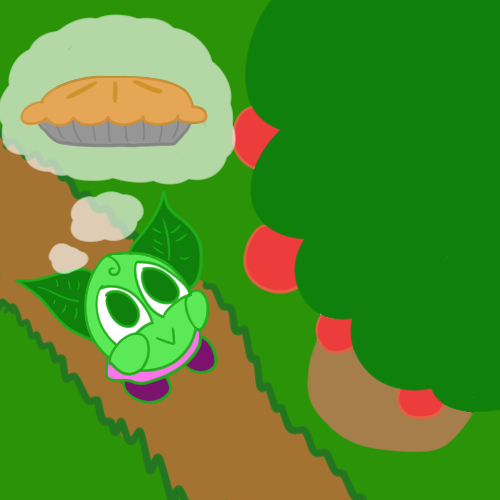
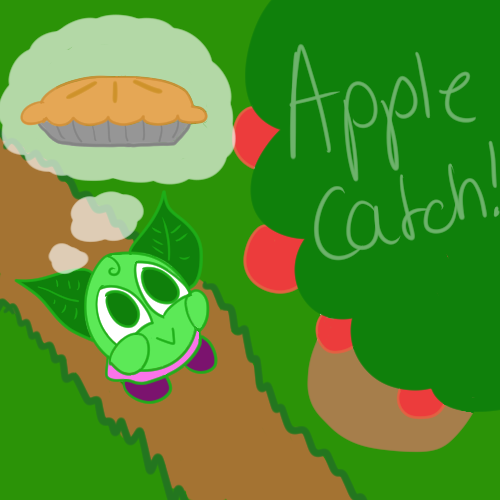
//Updated Screens and added finishing touches!

Changed region(s): [[0.57, 0.09, 1.0, 0.54], [0.63, 0.39, 0.66, 0.51], [0.66, 0.36, 0.69, 0.39]]

diff --git a/src/Game.java b/src/Game.java
@@ -147,40 +147,51 @@ public class Game extends PApplet {
     	//System.out.println("Start!");
     	
     	if ((mouseX >= 10 && mouseY >= 419) && (mouseX <= 138 && mouseY <= 482)){
-    		text("TEST", 10, 419);
-    		text("TEST2", 138, 482);
+    		//text("TEST", 10, 419);
+    		//text("TEST2", 138, 482);
     		mouseInStart = true;
     	}
     	
     }
 
     public void LoseScreen() {
-    	background(LossScreen);
-    	image(RestartB, 180, 355);
-    	LossMusic.play();
     	
-    	if (Game_music.isPlaying()) {
+    	if (Game_music.isPlaying() || TS_music.isPlaying()) {
     		Game_music.pause();
     		TS_music.pause();
     	}
     	
+    	LossMusic.play();
+    	
+    	background(LossScreen);
+    	/*
+    	image(RestartB, 180, 355);
+    	
     	if ((mouseX >= 176 && mouseY >= 352) && (mouseX <= 305 && mouseY <= 416)){
     		mouseInRestart = true;
-    	}
+    	}*/
     	
     }
 
     public void WinScreen() {
-    	background(WinScreen);
-    	image(RestartB, 180, 400);
-    	WinMusic.play();
     	if (Game_music.isPlaying()) {
     		Game_music.pause();
+    		
+    	}
+    	
+    	if (TS_music.isPlaying()) {
     		TS_music.pause();
     	}
+    	
+    	WinMusic.play();
+    	
+    	background(WinScreen);
+    	/*
+    	image(RestartB, 180, 400);
+    	
     	if ((mouseX >= 179 && mouseY >= 398) && (mouseX <= 305 && mouseY <= 460)){
     		mouseInRestart = true;
-    	}
+    	}*/
     	
     }
 
@@ -189,11 +200,12 @@ public class Game extends PApplet {
     		playGame = true;
     		System.out.println("In Start Clicked!");
     	}
-    	
+    	/*
     	if (mouseInRestart) {
     		ToStart = true;
     		System.out.println("Restart Clicked!");
     	}
+    	*/
     }
 
     public void draw() {
@@ -232,27 +244,27 @@ public class Game extends PApplet {
 	       //Handles levels
 	        switch (Level) {
 	            case 1:
-	                minApples = 12;
+	                minApples = 5;
 	                timer = new Timer(40000); // 40 Seconds
 	                FallingObject.Velocity = 2;
 	                break;
 	            case 2:
-	                minApples = 13;
+	                minApples = 8;
 	                timer = new Timer(35000); // 35 Seconds
 	                FallingObject.Velocity = 2;
 	                break;
 	            case 3:
-	                minApples = 15;
+	                minApples = 10;
 	                timer = new Timer(30000); // 30 Seconds
 	                FallingObject.Velocity = 2;
 	                break;
 	            case 4:
-	                minApples = 16;
+	                minApples = 11;
 	                timer = new Timer(25000); // 25 Seconds
 	                FallingObject.Velocity = 2;
 	                break;
 	            case 5:
-	                minApples = 18;
+	                minApples = 12;
 	                timer = new Timer(20000); // 20 Seconds
 	                FallingObject.Velocity = 2;
 	                break;
@@ -261,7 +273,7 @@ public class Game extends PApplet {
 	        if (FallingObject.objectsCaught == minApples){
 	            Level++;
                 FallingObject.objectsCaught = 0;
-                player.lives = 10;
+                player.lives = 15;
 	            //tell them they move onto next level
 	            if (Level>=6){
 	            	playGame = false;
@@ -278,11 +290,10 @@ public class Game extends PApplet {
 	        
 	        fill(0, 0, 0);
 	        textSize(12);
-	        text("Level: " +  + Level, 20, 20);
+	        text("Level: " + Level, 20, 20);
 	        text("Score: " + FallingObject.objectsCaught, 20, 35);
 	        text("Apples Required: " + minApples, 20, 50);
-	        text((timer.passedTime/1000), 20, 56);
-	        text("Lives: " + player.lives, 20, 80);
+	        text("Lives: " + player.lives, 20, 65);
 	
 	        if (waitTime.isFinished()){
 	            // Populate
@@ -301,7 +312,7 @@ public class Game extends PApplet {
 	        // Only Apples That Have Been created Can Fall
 	        // Will Make On Apple Fall At A Time Since The Number Of Active Apples Is Always Changing by 1
 	        for (int i = 0 ; i< activeApples;i++) {
-	        	println(caught);
+	        	//println(caught);
 	            apples[i].display();
 	            apples[i].moveDown();
 	            //caught = false;
@@ -327,12 +338,10 @@ public class Game extends PApplet {
         		StartScreen();
             	mouseInRestart = false;
             	mouseInStart = false;
-            	
-        		//System.out.println("Back to Start!");
         	}
         }
         ///*
-        if (caught)
+        if (caught && !CaughtSFX.isLooping())
         {
         	CaughtSFX.play();
         	System.out.print("playing");
@@ -340,7 +349,6 @@ public class Game extends PApplet {
         }//*/
         
         if (Loss) {
-        	
         	LoseScreen();
     	///*
     	if (ToStart) {
@@ -352,55 +360,6 @@ public class Game extends PApplet {
     	}
        }
 	        
-	        //TEMPORARY! DON'T WORRY ABOUT IT! TRYING TO FIX AN ISSUE
-	        /*
-	        if (FallingObject.objectsCaught >= 5 && (!timer.isFinished())){
-	        	WinScreen();
-	        	
-	        	
-	        	///*
-	        	if (ToStart) {
-	        		StartScreen();
-	            	mouseInRestart = false;
-	            	mouseInStart = false;
-	            	
-	        		//System.out.println("Back to Start!");
-	        	}
-	        
-	        } else if (FallingObject.objectsCaught <= 5 && timer.isFinished()) {
-	        	LoseScreen();
-	        
-	        		//System.out.println("Back to Start!");
-	            	//playGame = false;
-	        	///*
-	        	if (ToStart) {
-	        		StartScreen();
-	            	mouseInRestart = false;
-	            	mouseInStart = false;
-	            	//*/
-	        		//System.out.println("Back to Start!");
-	        	}
-	        	//*/
-	        //}
-        
-        /*
-        if (ToStart) {
-        	
-        	mouseInRestart = false;
-        	mouseInStart = false;
-        	playGame = false;
-        } else if (Loss && ToStart){
-        	
-        	mouseInRestart = false;
-        	mouseInStart = false;
-        	playGame = false;
-        }*/
-      
-	    }
-    
-   
-  //}
-//}
-
-//}
+    }
+}
 

diff --git a/src/Player.java b/src/Player.java
@@ -13,7 +13,7 @@ class Player extends PApplet {
 //		width = 100;
 //		posX = 250;
 //		posY = 0;
-		lives = 10;
+		lives = 15;
 	}
 	/*
 	public void setup() {
